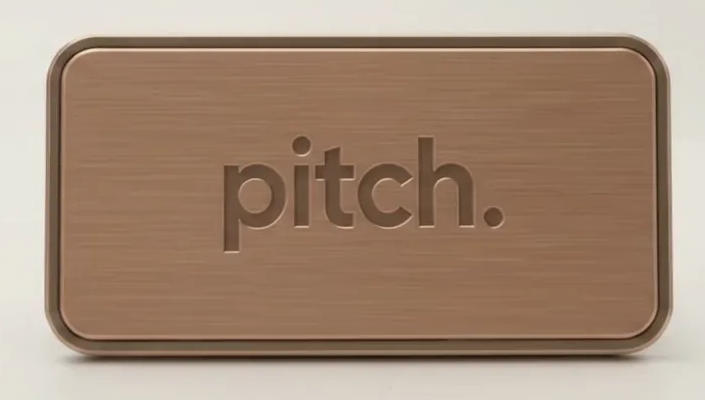
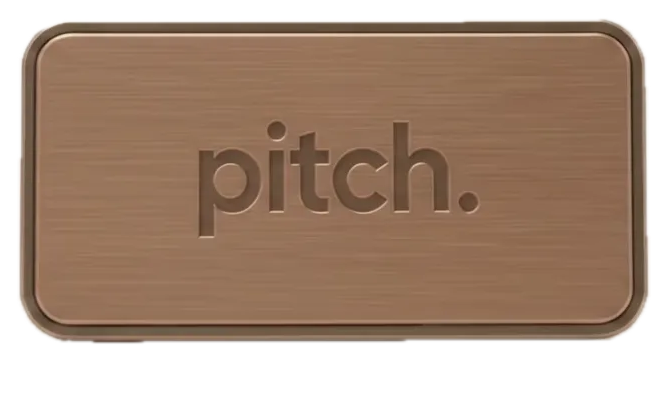
The Pitch hero sits on its own off-white, the nametag on the card floats free, and the site figure opens the site
Three things Luke saw on the live page. The hero band was the accent
blue, which made the warm renders look pasted on; a study may now name
its hero's ground (`heroGround`), the band takes that colour, and the
picture's edges fade into it so the two read as one surface. On the
home card the nametag was a print with a paper edge, most visible under
the hover scrim; it is now the plate itself, lifted from the render with
the system subject mask, laid beside the phone with its own shadow, and
the scrim is lighter on this pale stage. And the site figure opened the
lightbox; a figure may now carry an `href`, and this one goes to
usepitch.app with an "Open usepitch.app" hint in place of "Click to
expand".

Fixes LUK-127

diff --git a/app/work/[slug]/page.tsx b/app/work/[slug]/page.tsx
@@ -81,13 +81,27 @@ export async function generateMetadata({
  * exists, nothing at all while the caption is still scaffolding. (The old
  * template rendered grey placeholder boxes with bracketed captions.)
  */
-const Fig = ({ caption, src }: Figure) => {
+const Fig = ({ caption, src, href }: Figure) => {
   if (!src || isPlaceholder(caption)) return null
   return (
     <figure className="my-12">
       {/* alt is empty by design — the figcaption below already carries this
           text, and duplicating it makes screen readers announce it twice. */}
-      <ZoomShot src={src} alt="" width={1600} height={1000} sizes="(min-width: 860px) 860px, 100vw" />
+      {href ? (
+        /* A door, not a picture: the same frame and hover hint as the
+           lightbox trigger, but the click goes to the live thing. */
+        <a className="lcs-zoom" href={href} target="_blank" rel="noopener noreferrer">
+          <Image src={src} alt="" width={1600} height={1000} sizes="(min-width: 860px) 860px, 100vw" className="lcs-shot" />
+          <span className="lcs-zoom__hint" aria-hidden="true">
+            <svg width="12" height="12" viewBox="0 0 12 12" fill="none" aria-hidden="true">
+              <path d="M3 1h8v8M11 1 1 11" stroke="currentColor" strokeWidth="1.4" strokeLinecap="round" strokeLinejoin="round" />
+            </svg>
+            Open {href.replace(/^https?:\/\//, '').replace(/\/$/, '')}
+          </span>
+        </a>
+      ) : (
+        <ZoomShot src={src} alt="" width={1600} height={1000} sizes="(min-width: 860px) 860px, 100vw" />
+      )}
       <figcaption className="cs-cap">{caption}</figcaption>
     </figure>
   )
@@ -229,7 +243,11 @@ export default async function CaseStudyPage({ params }: { params: Promise<{ slug
             </Col>
           </Band>
         ) : cs.heroSrc ? (
-          <Band tone="accent">
+          <Band
+            tone="accent"
+            className={cs.heroGround ? 'cs-band--ground' : undefined}
+            style={cs.heroGround ? { background: cs.heroGround } : undefined}
+          >
             <Col wide>
               <figure className="m-0">
                 <Image
@@ -239,7 +257,7 @@ export default async function CaseStudyPage({ params }: { params: Promise<{ slug
                   height={1000}
                   priority
                   sizes="(min-width: 1200px) 1100px, 100vw"
-                  className="w-full h-auto rounded-xl cs-hero-still"
+                  className={cs.heroGround ? 'w-full h-auto cs-hero-melt' : 'w-full h-auto rounded-xl cs-hero-still'}
                 />
                 <figcaption className="cs-cap cs-cap--mono mt-5 text-center">
                   {cs.heroCaption ?? 'Final design overview'}

diff --git a/app/globals.css b/app/globals.css
@@ -747,7 +747,7 @@ p a {
  * print goes muddy rather than dark.
  */
 .tile-stage--pitch {
-  --scrim: 0.34;
+  --scrim: 0.22;
   background:
     radial-gradient(120% 90% at 50% 110%, rgba(76, 123, 232, 0.18), rgba(76, 123, 232, 0) 70%),
     linear-gradient(180deg, #e6e9f6 0%, #f1f2f8 100%);
@@ -769,26 +769,24 @@ p a {
 }
 
 /*
- * The supporting piece: the nametag as a print, behind the phone's left
- * shoulder and tilted a few degrees so it reads as a thing laid beside
- * the phone rather than a second screen. The image is the render's own
- * warm ground around the plate, so the print has a paper edge.
+ * The supporting piece: the nametag itself, lifted off its render (the
+ * subject mask in macOS Vision, see LUK-127), behind the phone's left
+ * shoulder and tilted a few degrees. No card, no paper edge: it is the
+ * object laid beside the phone, with its own drop shadow.
  */
 .pitch-plate {
   position: absolute;
-  left: 5%;
+  left: 4%;
   top: 30cqh;
   z-index: 1;
   width: 50cqw;
-  aspect-ratio: 705 / 400;
+  aspect-ratio: 655 / 400;
   transform: rotate(-4deg);
-  border-radius: calc(50cqw * 0.03);
-  overflow: hidden;
-  box-shadow: 0 16px 40px rgba(30, 40, 90, 0.22), 0 1px 4px rgba(30, 40, 90, 0.12);
+  filter: drop-shadow(0 18px 28px rgba(30, 40, 90, 0.28)) drop-shadow(0 2px 4px rgba(30, 40, 90, 0.14));
 }
 
 .pitch-plate img {
-  object-fit: cover;
+  object-fit: contain;
 }
 
 /*
@@ -1236,6 +1234,26 @@ p a {
   display: block;
   border: 1px solid rgba(0, 0, 0, 0.12);
   box-shadow: 0 30px 80px rgba(0, 0, 0, 0.28);
+}
+
+/*
+ * A band in the picture's own ground (`heroGround`): dark type, and the
+ * picture's edges fade into the band so the two read as one surface even
+ * where the render's vignette is a shade off the sampled colour.
+ */
+.cs-band--ground { color: #0a0a0a; }
+.cs-band--ground .cs-cap { color: rgba(10, 10, 10, 0.62); }
+
+.cs-hero-melt {
+  display: block;
+  mask-image:
+    linear-gradient(to right, transparent, #000 6%, #000 94%, transparent),
+    linear-gradient(to bottom, transparent, #000 10%, #000 90%, transparent);
+  mask-composite: intersect;
+  -webkit-mask-image:
+    linear-gradient(to right, transparent, #000 6%, #000 94%, transparent),
+    linear-gradient(to bottom, transparent, #000 10%, #000 90%, transparent);
+  -webkit-mask-composite: source-in;
 }
 
 /* Tile SVG base */

diff --git a/lib/caseStudies.ts b/lib/caseStudies.ts
@@ -19,6 +19,8 @@ export type Figure = {
   src?: string
   caption: string
   height?: string
+  /** A figure that is a door, not a picture to inspect: clicking opens this URL instead of the lightbox. */
+  href?: string
 }
 
 export type CaseStudy = {
@@ -59,6 +61,13 @@ export type CaseStudy = {
   outcomes?: string[]
   heroSrc?: string
   heroCaption?: string
+  /*
+   * The hero band's colour when the hero is a photograph rather than a
+   * device frame: set it to the picture's own ground so the band and the
+   * picture read as one surface (Pitch's nametag renders sit on a warm
+   * off-white; on the accent blue the picture looked pasted on).
+   */
+  heroGround?: string
   problemFigure?: Figure
   processFigures?: Figure[]
   /*
@@ -396,6 +405,7 @@ export const caseStudies: CaseStudy[] = [
         figure: {
           src: '/work/pitch/site-hero.png',
           caption: 'usepitch.app: the nametag is the hero, and every button books a demo',
+          href: 'https://usepitch.app',
         },
       },
       {
@@ -410,6 +420,8 @@ export const caseStudies: CaseStudy[] = [
     ],
     heroSrc: '/work/pitch/nametag.png',
     heroCaption: 'The nametag, assembled and apart: copper nameplate, titanium frame, and the core with two mics',
+    // The renders' own ground, sampled from the composite's left and right edges.
+    heroGround: '#e2e0d8',
   },
 ]
 

diff --git a/components/cs/Story.tsx b/components/cs/Story.tsx
@@ -34,10 +34,13 @@ export function Band({
   crop = false,
   flush = false,
   className = '',
+  style,
 }: {
   children: ReactNode
   /** lift = one step above the page ground; accent = the study's colour */
   tone?: 'lift' | 'accent'
+  /** For a band whose colour is a picture's own ground rather than a token. */
+  style?: React.CSSProperties
   /** Faint drifting specks, for the bands that carry a single statement. */
   dust?: boolean
   /** The band's bottom edge crops its content (the hero laptop). */
@@ -55,7 +58,11 @@ export function Band({
   ]
     .filter(Boolean)
     .join(' ')
-  return <section className={cls}>{children}</section>
+  return (
+    <section className={cls} style={style}>
+      {children}
+    </section>
+  )
 }
 
 /* A block that rises in on scroll, with the column's rhythm above it. */
